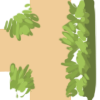
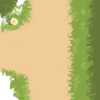
big rework of images

diff --git a/index.html b/index.html
@@ -22,6 +22,8 @@
 	</head>
 	<body>
 		<maze>
+			<overlay class="below"></overlay>
+			<overlay class="above"></overlay>
 			<posts></posts>
 		</maze>
 		<background></background>
@@ -294,17 +296,8 @@
 					mazeElement.appendChild(flag);					
 				}
 
-				let deleteFlag = name => {
-					let flag = flags[name];
-					flag.element.classList.add('disappear');
-					after(500, _ => {
-						mazeElement.removeChild(flag.element);
-						delete flags[name];
-					});
-				}
-
 				let placeFlags = _ => {
-					nbOfHoles = random(3, 5);
+					nbOfHoles = random(2, 5);
 
 					mazeElement.querySelectorAll('flag').forEach(flag => mazeElement.removeChild(flag));
 
@@ -418,13 +411,13 @@
 					player.element.addEventListener('click', _ => {
 						if(selectedPlayer) {
 							selectedPlayer.color = selectedPlayer.originalColor;
-							updatePlayerColor(selectedPlayer);
+							updatePlayer(selectedPlayer);
 						}
 
 						if(selectedPlayer != player) {
 							selectedPlayer = player;
 							selectedPlayer.color = 'pink';
-							updatePlayerColor(selectedPlayer);
+							updatePlayer(selectedPlayer);
 						} else {
 							selectedPlayer = null;
 						}
@@ -495,7 +488,7 @@
 					let foundElement = document.createElement('found');
 					foundElement.style.setProperty('--player-color', player.color);
 					foundElement.style.setProperty('--contrast-color', idealTextColor(player.color));
-					foundElement.innerHTML = '<name>' + (player.tags['display-name'] || 'Un mouton') + '</name> a trouv&eacute; le mouton avec la cloche !';
+					foundElement.innerHTML = '<name>' + (player.tags['display-name'] || 'Un mouton') + '</name> a trouvé le mouton avec la cloche !';
 					document.body.appendChild(foundElement);
 					mazeElement.classList.add('blur');
 
@@ -503,19 +496,14 @@
 						document.body.removeChild(foundElement);
 					});
 
+					// Retirer les barrières
+					mazeElement.querySelectorAll('cell:not(.external)').forEach(flag => flag.className = '');
 					Object.values(players).forEach(player => player.animating = false);
+
+					after(1800, _ => mazeElement.classList.remove('blur'));
 					after(2000, _ => {
 						clearAllAnimations();
 						let maxTime = 0;
-
-						// Retirer les barrières
-						mazeElement.querySelectorAll('cell:not(.external)').forEach(flag => flag.className = '');
-
-						mazeElement.classList.remove('blur');
-
-						Object.keys(flags).forEach((flagName, i) => {
-							after(i*100, _ => deleteFlag(flagName));
-						});
 
 						// Replacer les moutons et les joueurs
 						Object.values(players).forEach(pl => {
@@ -589,11 +577,10 @@
 							walk.pause();
 						});
 
-						after(Math.max(1000, maxTime), _ => {
+						after(Math.max(500, maxTime), _ => {
 
 							// Remettre les barrières
 							initMaze();
-							placeFlags();
 
 							after(1000, _ => {
 								ended = false;
@@ -754,10 +741,10 @@
 					players[i] = player;
 
 					let move = _ => {
-						setTimeout(_ => {
+						after(random(2000, 10000), _ => {
 							if(player != selectedPlayer) goDirection(player, random(37,  40));
 							move();
-						}, random(2000, 10000));
+						});
 					};
 
 					move();

diff --git a/assets/styles/maze.css b/assets/styles/maze.css
@@ -6,11 +6,13 @@
 	--grid-size: 7;
 
 	/** Layer orders **/
-	--z-player: 6;
-	--z-borders: 5;
-	--z-posts: 4;
-	--z-player-walking: 3;
-	--z-flags: 2;
+	--z-overlay-above: 8;
+	--z-player: 7;
+	--z-borders: 6;
+	--z-posts: 5;
+	--z-player-walking: 4;
+	--z-flags: 3;
+	--z-overlay-below: 2;
 	--z-paths: 1;
 	--z-background: 0;
 }
@@ -23,7 +25,6 @@ maze {
 	top: 50%;
 	left: 50%;
 	transform: translate(-50%, -50%);
-	transition: filter 1s;
 }
 
 maze cell {
@@ -54,3 +55,28 @@ maze posts {
 maze.blur {
 	filter: blur(3px);
 }
+
+overlay {
+	position: absolute;
+	display: block;
+	width: var(--width);
+	height: var(--height);
+	top: 50%;
+	left: 50%;
+	transform: translate(-50%, -50%);
+	background-size: cover;
+	pointer-events: none;
+}
+
+overlay.below {
+	z-index: var(--z-overlay-below);
+	background-image: var(--overlay-below-image);
+	background-repeat: no-repeat;
+}
+
+overlay.above {
+	z-index: var(--z-overlay-above);	
+	background-image: var(--overlay-above-image);
+	background-repeat: no-repeat;
+}
+

diff --git a/assets/styles/images.css b/assets/styles/images.css
@@ -1,6 +1,8 @@
 :root {
 	--background-image: url(../images/background.png);
 	--found-background-image: url(../images/background-found.png);
+	--overlay-above-image: url(../images/overlay-above.png);
+	--overlay-below-image: url(../images/overlay-below.png);
 	--border-h-image: url(../images/border-h.png);
 	--border-v-image: url(../images/border-v.png);
 	--post-image: url(../images/post.png);
